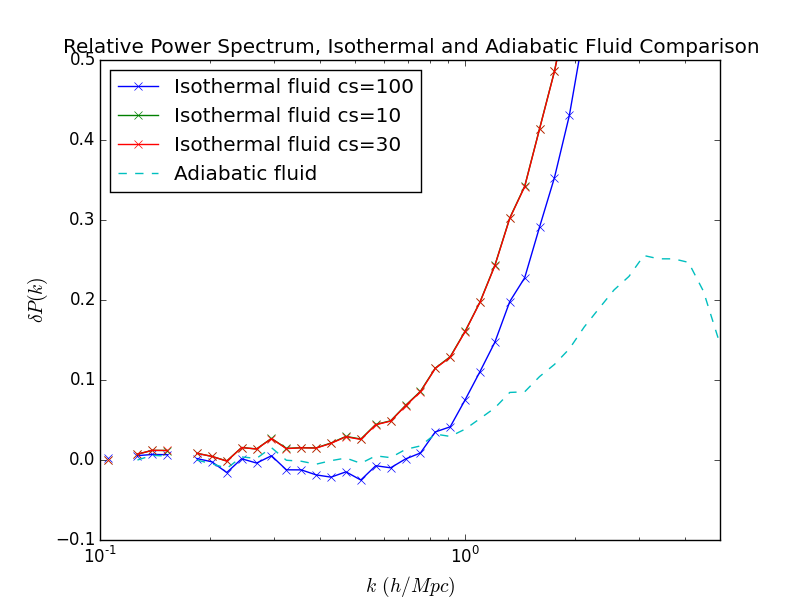
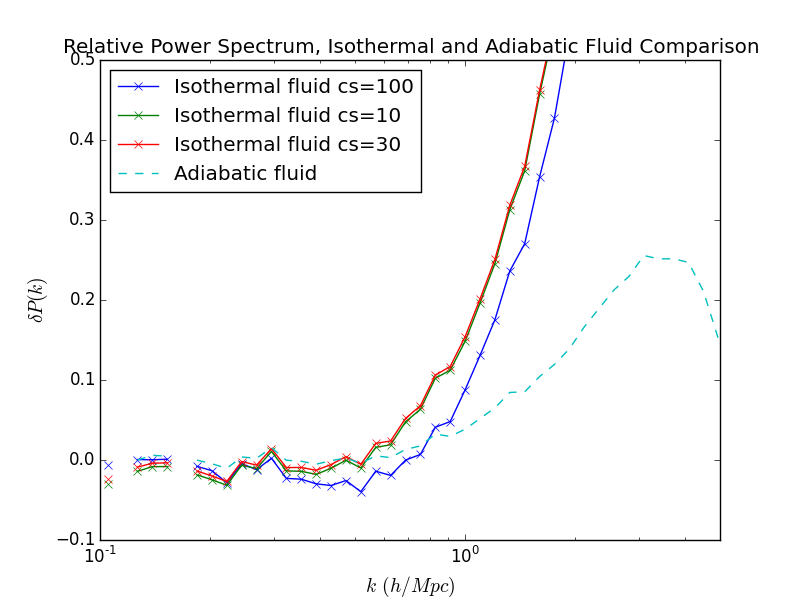
Update plots with minpressure16 results.

Changed region(s): [[0.125, 0.09, 0.7188, 0.84]]

diff --git a/plots/isothermal/isothermal_fluid_low_adiabatic_normalized_particle_minpressure.py b/plots/isothermal/isothermal_fluid_low_adiabatic_normalized_particle_minpressure.py
@@ -19,13 +19,13 @@ for simtype in simtypes:
     kvalues_base, ps_base = np.loadtxt(result_dir+base, unpack=True)
 
     for filename in filenames:
-        if 'isothermal' in filename and 'minpressure' in filename:
+        if 'isothermal' in filename and 'minpressure16' in filename:
             isothermal = isothermalpattern.findall(filename)[0]
             if int(isothermal) < 300:
                 n = npattern.findall(filename)[0]
                 kvalues, ps = np.loadtxt(result_dir+filename, unpack=True)
                 ps = (ps - ps_base)/ps_base
-                style = '-x' if 'minpressure' in filename else '-'
+                style = '-x' if 'minpressure16' in filename else '-'
                 plt.semilogx(kvalues, ps, style, label='Isothermal fluid cs='+isothermal)
         elif filename is 'fluid_b100_n1024_t0.005_h2_z50.out': 
             kvalues, ps = np.loadtxt(result_dir+filename, unpack=True)

diff --git a/plots/isothermal/isothermal_fluid_low_adiabatic_normalized_particle_z10_minpressure.py b/plots/isothermal/isothermal_fluid_low_adiabatic_normalized_particle_z10_minpressure.py
@@ -20,7 +20,7 @@ for simtype in simtypes:
     kvalues_base, ps_base = np.loadtxt(result_dir+base, unpack=True)
 
     for filename in filenames:
-        if 'iso' in filename and 'minpressure' in filename:
+        if 'iso' in filename and 'minpressure16' in filename:
             isothermal = isothermalpattern.findall(filename)[0]
             if isothermal in ['10','30','100']:
                 n = npattern.findall(filename)[0]

diff --git a/plots/isothermal/isothermal_fluid_low_adiabatic_normalized_particle_z10_minpressure_lowres.py b/plots/isothermal/isothermal_fluid_low_adiabatic_normalized_particle_z10_minpressure_lowres.py
@@ -20,7 +20,7 @@ for simtype in simtypes:
     kvalues_base, ps_base = np.loadtxt(result_dir+base, unpack=True)
 
     for filename in filenames:
-        if 'iso' in filename and 'minpressure' in filename:
+        if 'iso' in filename and 'minpressure16' in filename:
             isothermal = isothermalpattern.findall(filename)[0]
             if isothermal in ['10','30','100']:
                 n = npattern.findall(filename)[0]
